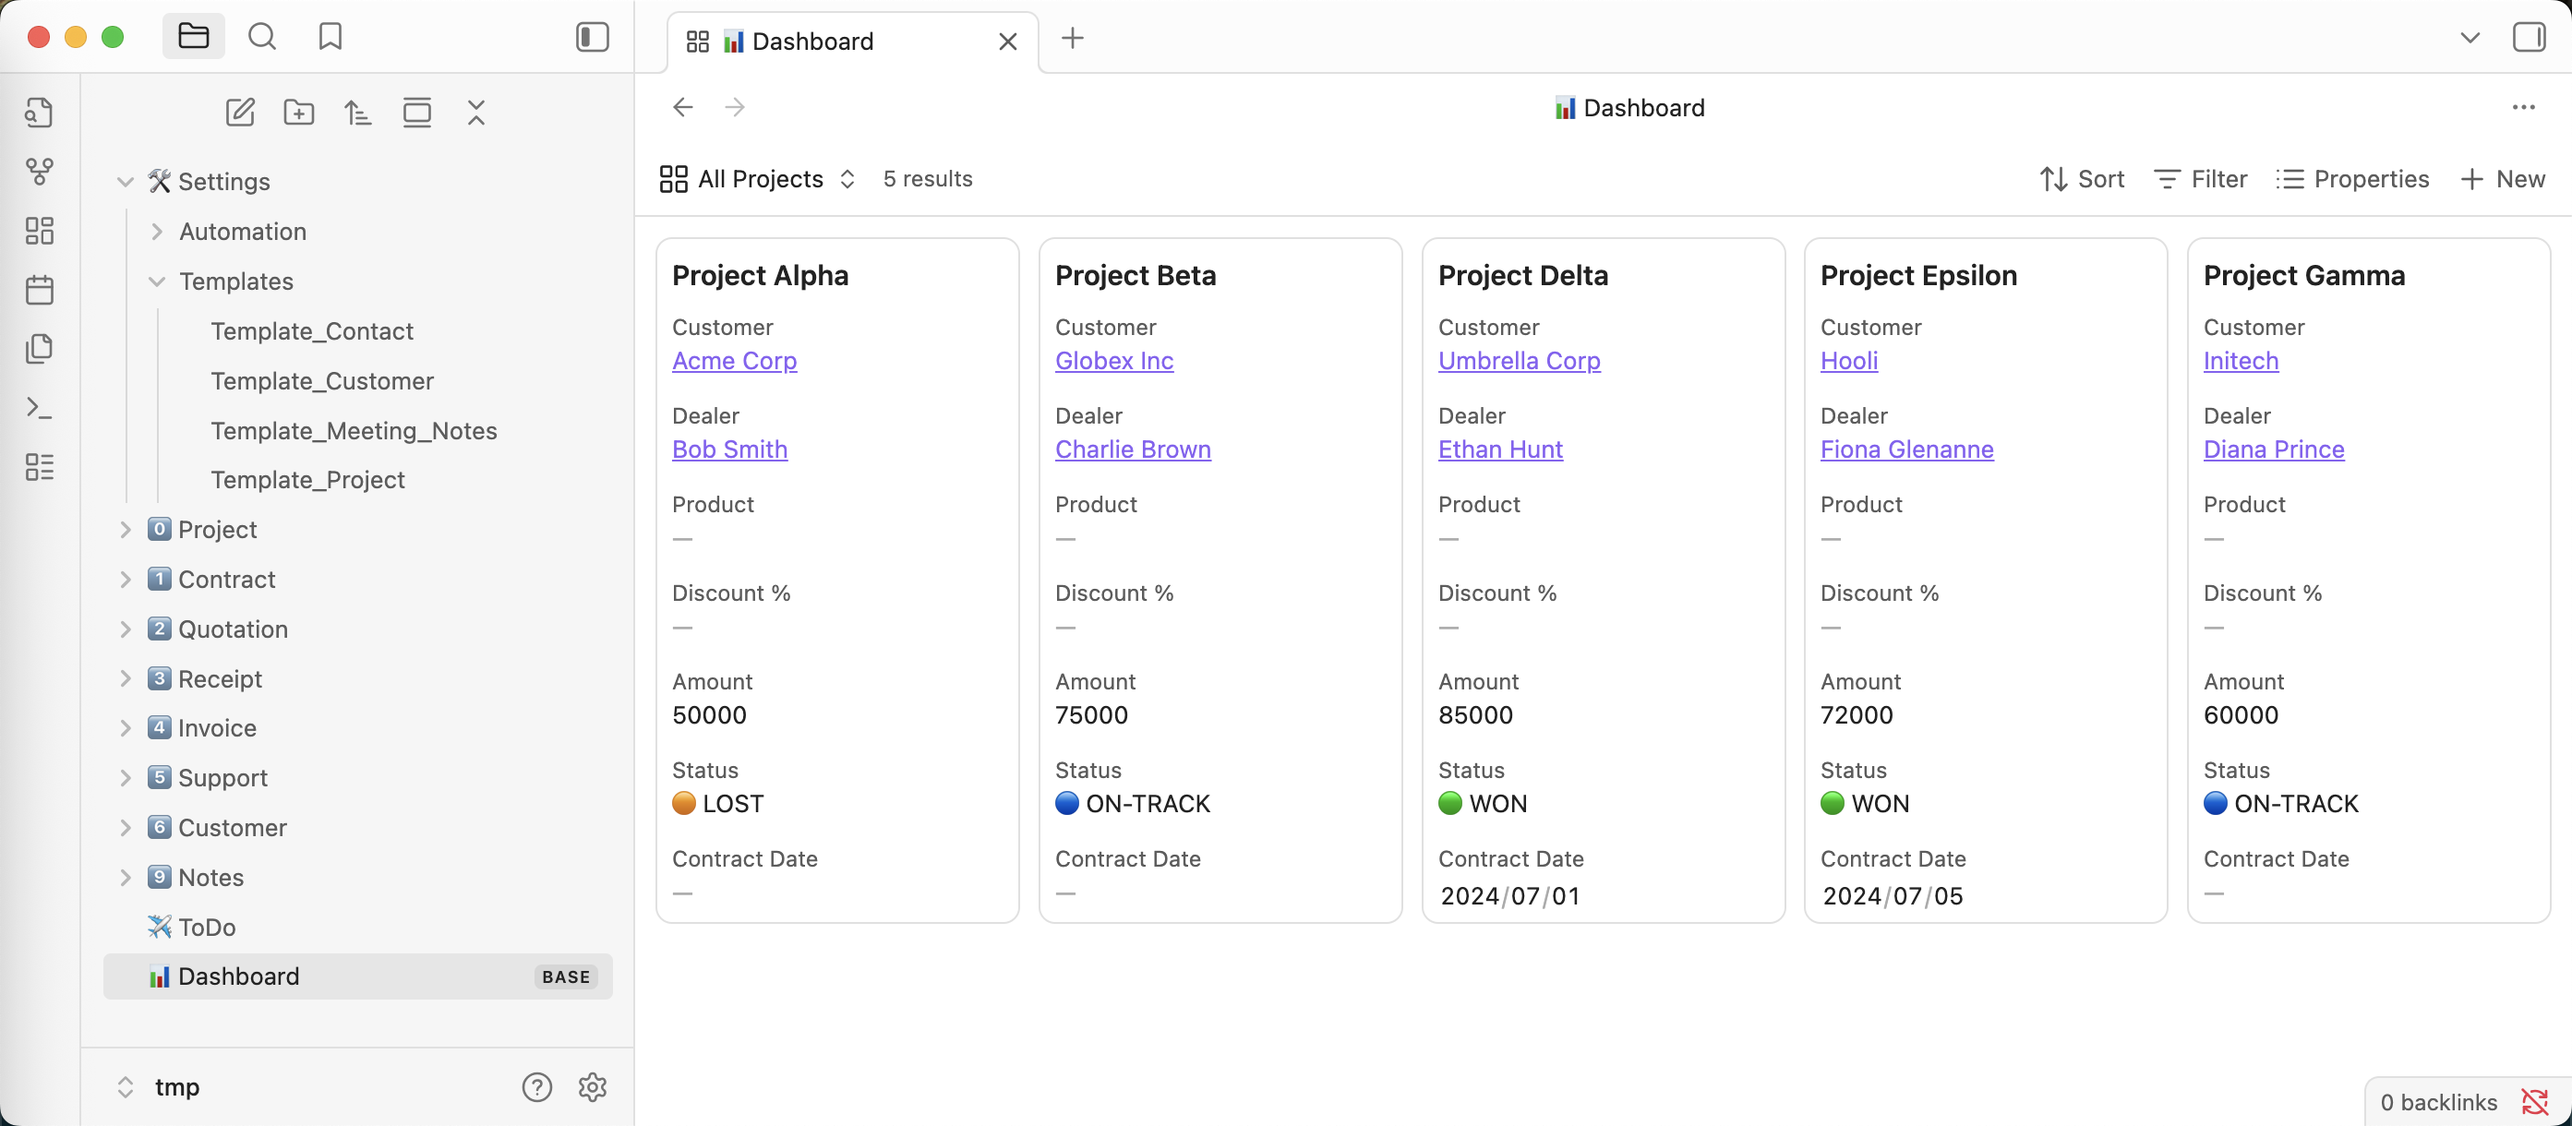
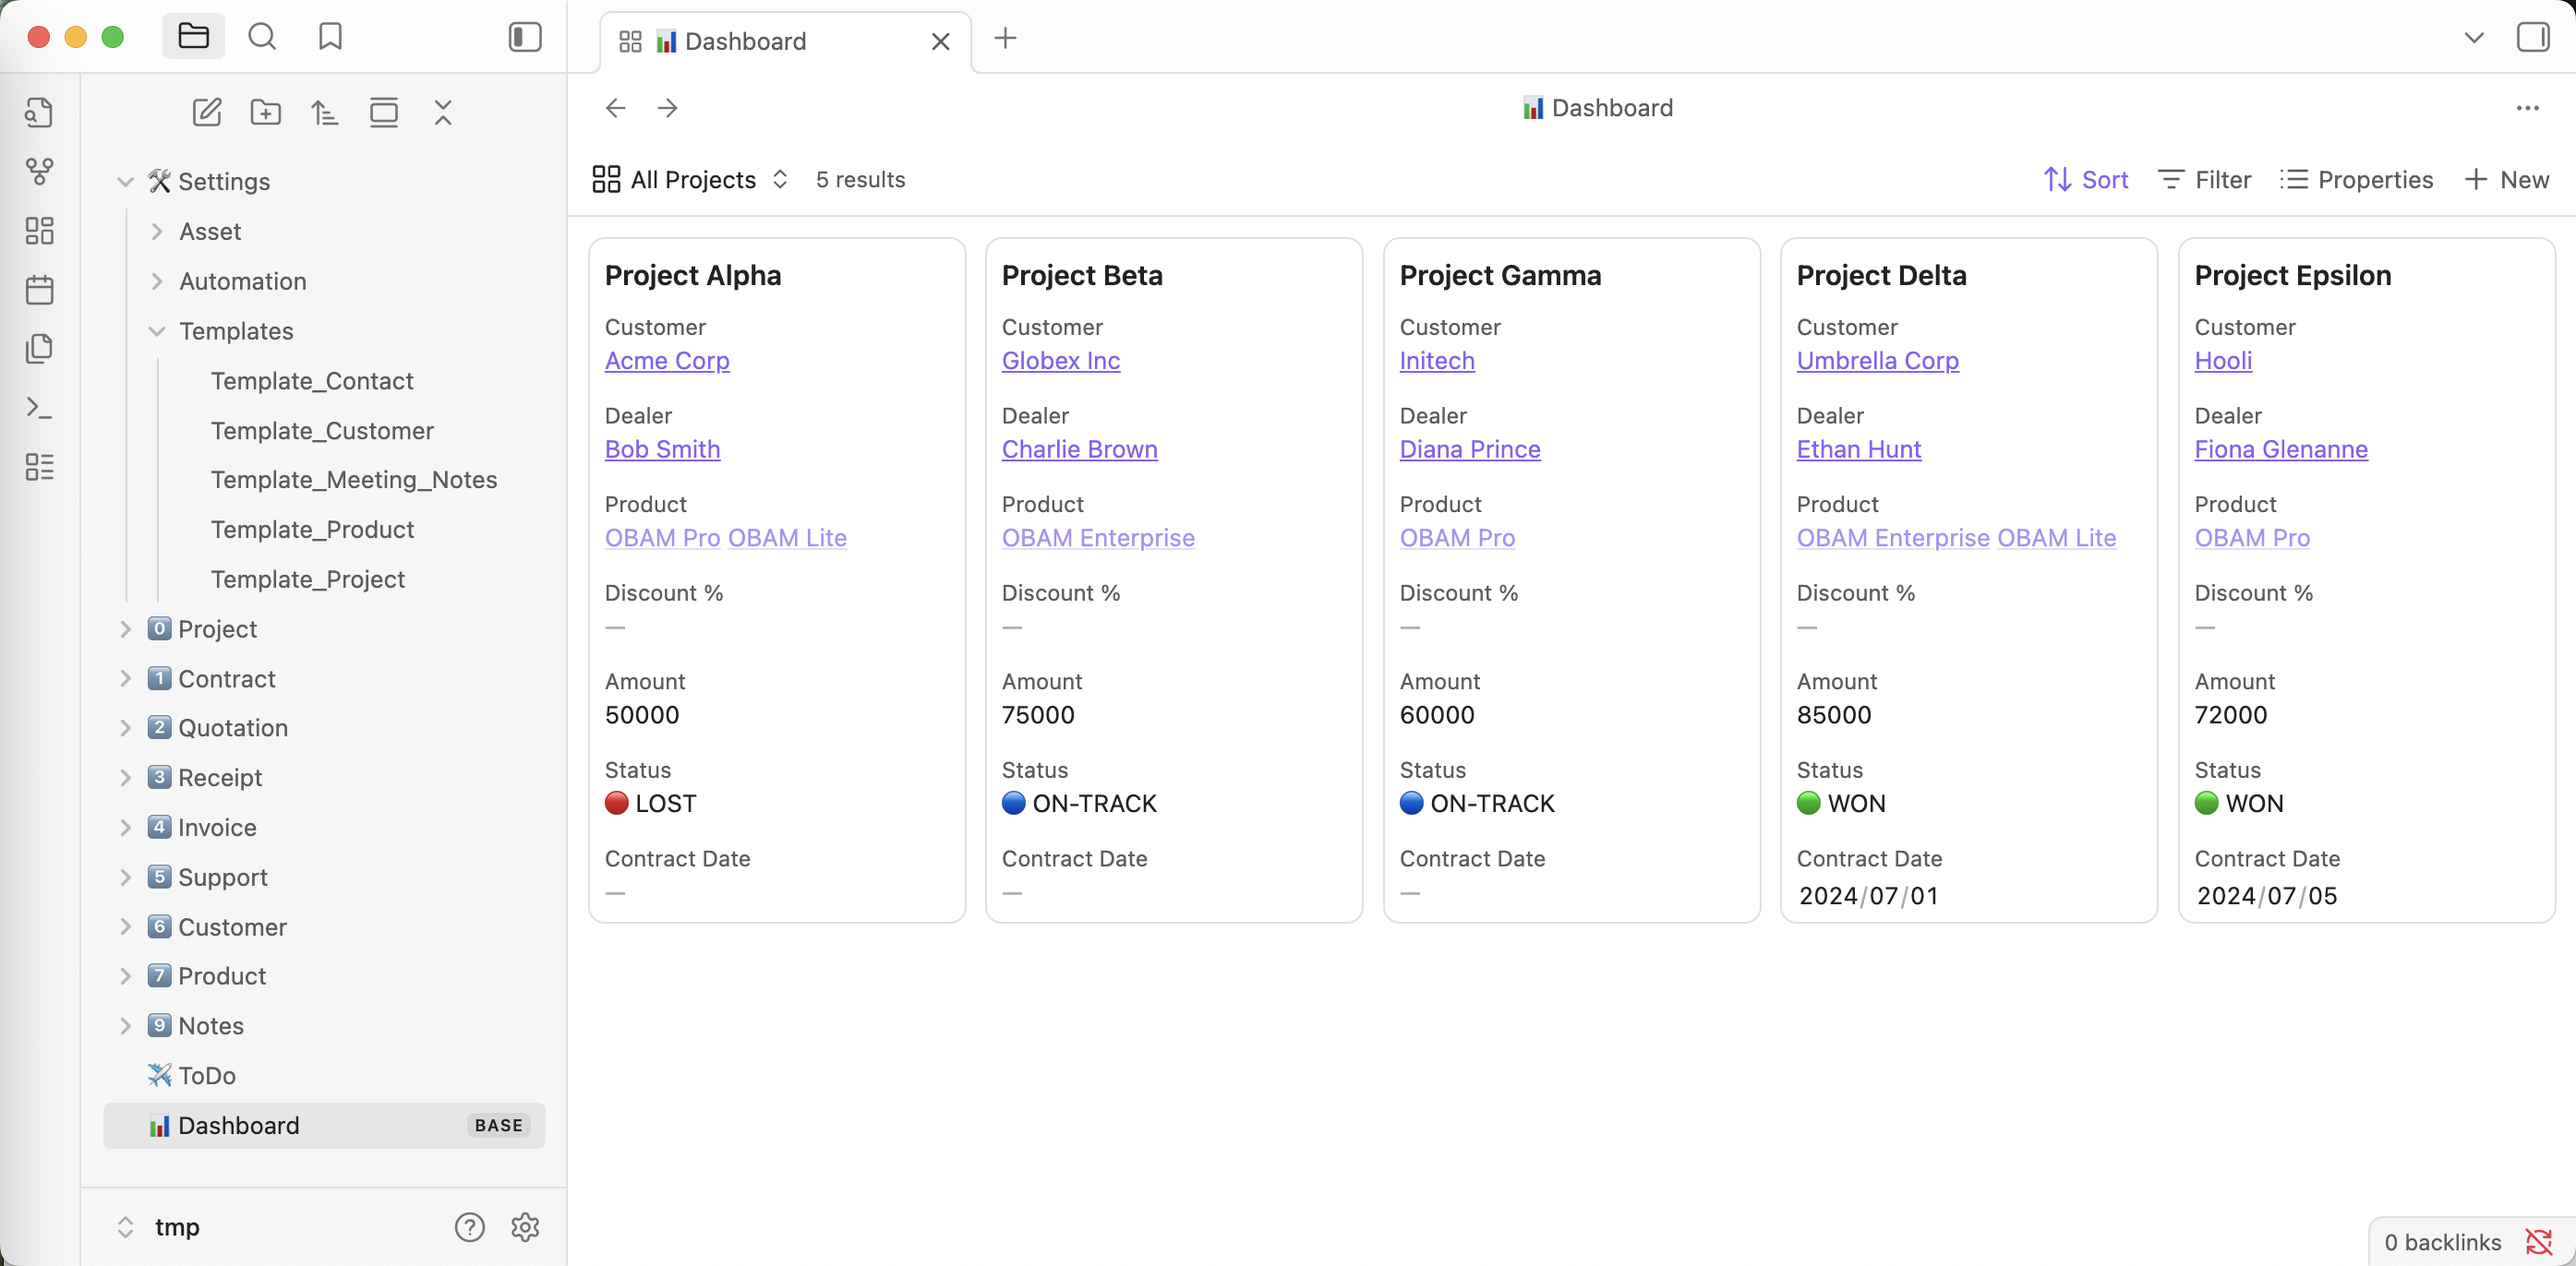
improve templates

diff --git a/README.md b/README.md
@@ -25,11 +25,16 @@
 pip install obsiasset
 ```
 
-### 3⃣ Init Asset Vault and Import Sample Assets
+### 3⃣ Open Obsidian and create a vault 
+
+### 4⃣ Init Asset Vault and Import Sample Assets
 
 ```bash
+cd <dir_of_obsidian_vault>
 obsiasset init --schema sales --lang en --import-sample
 ```
+
+### 5⃣ Back to Obsidian
 
 ![ToDo List](https://raw.githubusercontent.com/bxwillshi/obsidian-asset-manager/main/images/todo_list.png)
 ![Dashboard](https://raw.githubusercontent.com/bxwillshi/obsidian-asset-manager/main/images/dashboard.png)
